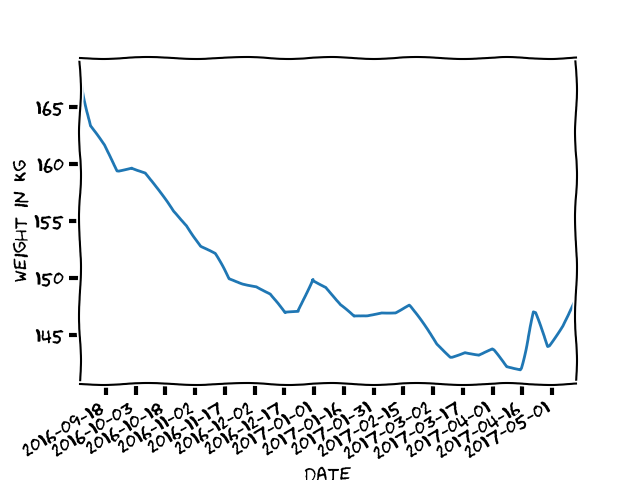
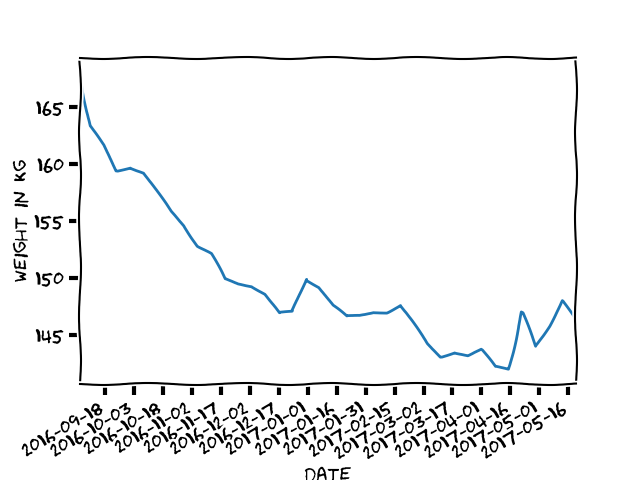
Week 21 update

diff --git a/index.html b/index.html
@@ -30,6 +30,14 @@
   </thead>
   <tbody>
     <tr>
+      <th>2017-05-20</th>
+      <td>146.2</td>
+      <td>-1.8</td>
+      <td>-21.8</td>
+      <td>43.7</td>
+      <td>1.7</td>
+    </tr>
+    <tr>
       <th>2017-05-13</th>
       <td>148.0</td>
       <td>2.2</td>
